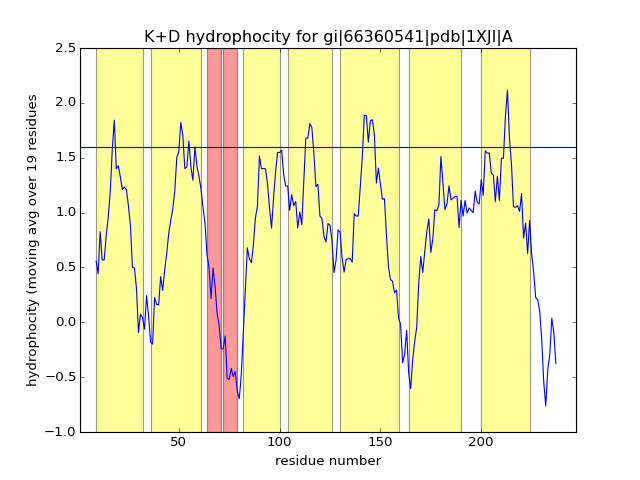
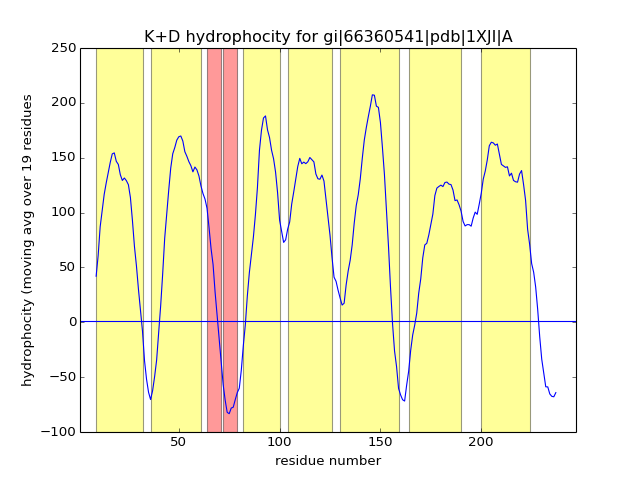
debugging triangle avg

diff --git a/matplotlib/graph.py b/matplotlib/graph.py
@@ -4,6 +4,7 @@ Compute hydrophobicity values for a sequence
 
 import fasta_reader
 from pylab import plt
+import numpy as np
 
 def get_hydro_values(seq):
     """
@@ -59,19 +60,34 @@ def color_regions():
     plt.axvspan(200, 224, facecolor="yellow", alpha=0.4)
 
 def plot_graph(x_data, y_data, transmembrane_threshold):
-    plt.plot(x_data, mva, linewidth = 1.0)
+    plt.plot(x_data, y_data, linewidth = 1.0)
     plt.axis(xmin = 1, xmax = len(hydro_values))
     plt.axhline(y = transmembrane_threshold)
-    
+    print transmembrane_threshold
+
+def triangle_filter(seq, n):
+    weights = range(1, n/2 + 2) + sorted(range(1, n/2 + 1), reverse=True)
+    smooth_values = []
+    for residue in range(n/2, len(seq) - (n/2)):
+        new = seq[residue - (n/2): residue + (n/2) + 1]
+        smooth_values.append(sum(np.multiply(new, weights)))
+    x_data = range((n/2), len(smooth_values) + (n/2))
+    return (x_data, smooth_values)
+
+
+
 INPUT_FILE = open("bacteriorhodopsin.fasta")
 record = fasta_reader.read_fasta_record(INPUT_FILE)
 hydro_values = get_hydro_values(record.sequence)
 
 
 window_size = 19
-x_axis, mva = mva(hydro_values, window_size)
-plot_graph(x_axis, mva, 1.6)
-
+#x_axis, mva = mva(hydro_values, window_size)
+x_axis, y_axis = triangle_filter(hydro_values, window_size)
+plot_graph(x_axis, y_axis, 1.6)
 label_axis(record.title.split()[0], window_size)
 color_regions()
 plt.savefig("ex.png", dpi = 80)
+
+
+
